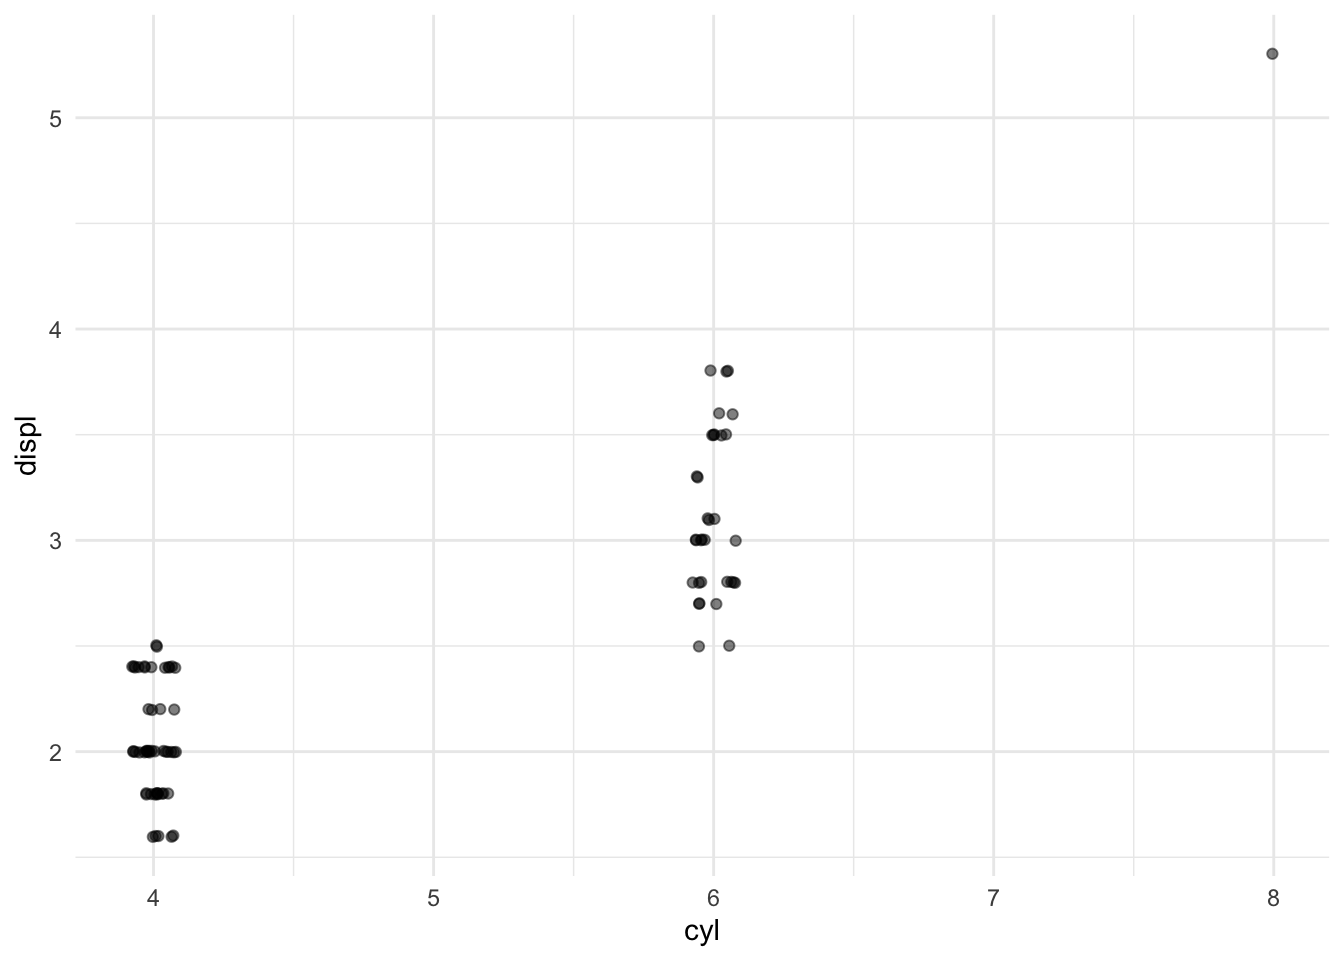
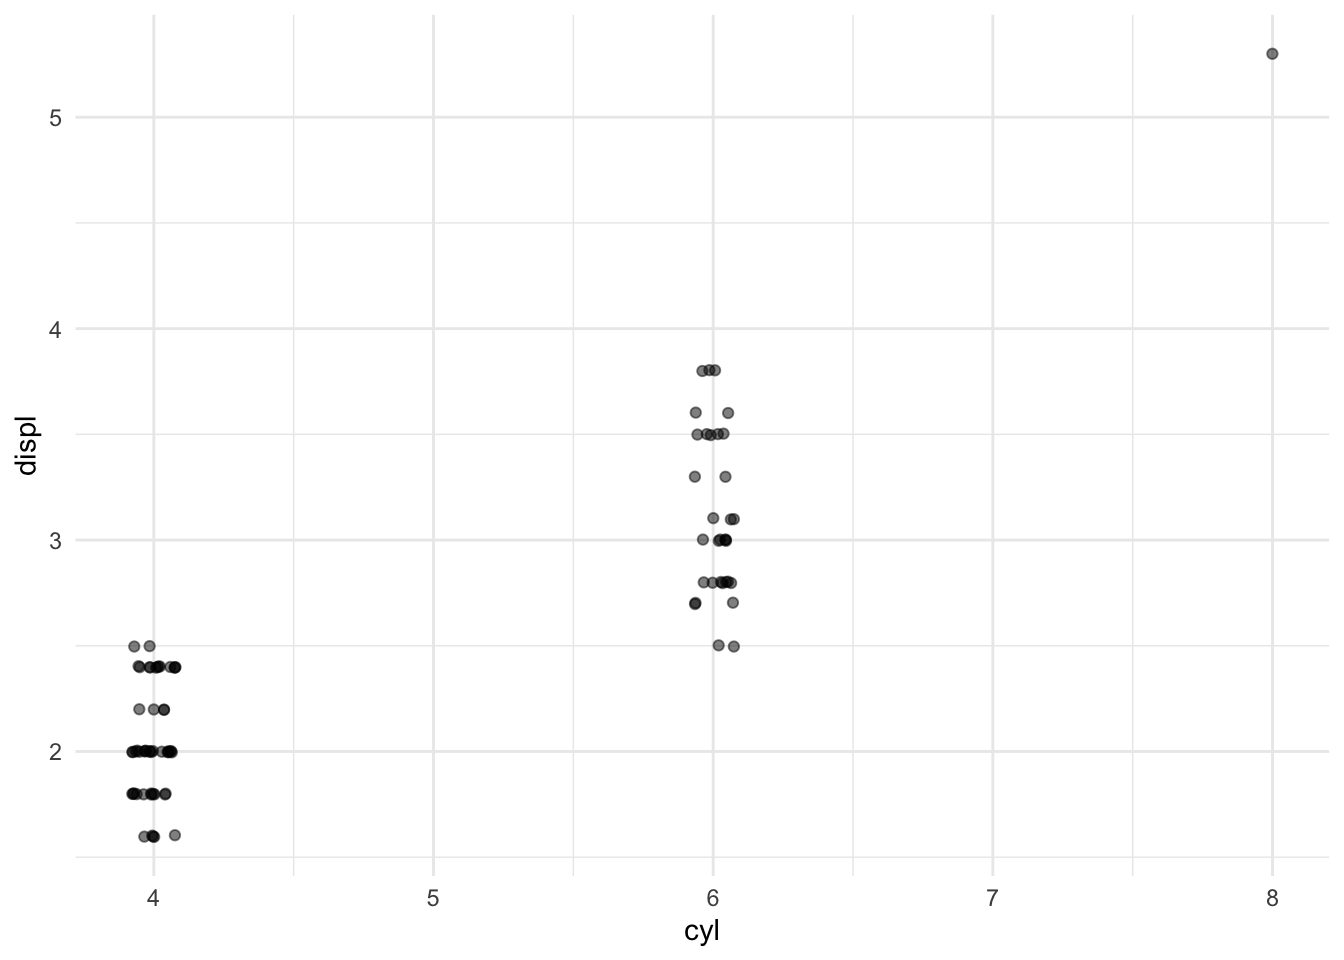
removed data preparation

diff --git a/docs/posts/miles_per_gallon/index.html b/docs/posts/miles_per_gallon/index.html
@@ -238,43 +238,43 @@ div.csl-indent {
 </thead>
 <tbody>
 <tr class="odd">
-<td style="text-align: left;">toyota</td>
-<td style="text-align: left;">corolla</td>
-<td style="text-align: right;">1.8</td>
-<td style="text-align: left;">2008</td>
+<td style="text-align: left;">volkswagen</td>
+<td style="text-align: left;">new beetle</td>
+<td style="text-align: right;">2.0</td>
+<td style="text-align: left;">1999</td>
 <td style="text-align: right;">4</td>
-<td style="text-align: right;">28</td>
+<td style="text-align: right;">21</td>
 <td style="text-align: left;">r</td>
-<td style="text-align: left;">compact</td>
+<td style="text-align: left;">subcompact</td>
 <td style="text-align: left;">manual</td>
 </tr>
 <tr class="even">
 <td style="text-align: left;">hyundai</td>
-<td style="text-align: left;">sonata</td>
-<td style="text-align: right;">2.4</td>
-<td style="text-align: left;">1999</td>
+<td style="text-align: left;">tiburon</td>
+<td style="text-align: right;">2.0</td>
+<td style="text-align: left;">2008</td>
 <td style="text-align: right;">4</td>
-<td style="text-align: right;">18</td>
-<td style="text-align: left;">r</td>
-<td style="text-align: left;">midsize</td>
-<td style="text-align: left;">auto</td>
-</tr>
-<tr class="odd">
-<td style="text-align: left;">honda</td>
-<td style="text-align: left;">civic</td>
-<td style="text-align: right;">1.6</td>
-<td style="text-align: left;">1999</td>
-<td style="text-align: right;">4</td>
-<td style="text-align: right;">24</td>
+<td style="text-align: right;">20</td>
 <td style="text-align: left;">r</td>
 <td style="text-align: left;">subcompact</td>
 <td style="text-align: left;">auto</td>
 </tr>
+<tr class="odd">
+<td style="text-align: left;">toyota</td>
+<td style="text-align: left;">corolla</td>
+<td style="text-align: right;">1.8</td>
+<td style="text-align: left;">1999</td>
+<td style="text-align: right;">4</td>
+<td style="text-align: right;">24</td>
+<td style="text-align: left;">r</td>
+<td style="text-align: left;">compact</td>
+<td style="text-align: left;">auto</td>
+</tr>
 <tr class="even">
-<td style="text-align: left;">chevrolet</td>
-<td style="text-align: left;">malibu</td>
-<td style="text-align: right;">3.6</td>
-<td style="text-align: left;">2008</td>
+<td style="text-align: left;">pontiac</td>
+<td style="text-align: left;">grand prix</td>
+<td style="text-align: right;">3.8</td>
+<td style="text-align: left;">1999</td>
 <td style="text-align: right;">6</td>
 <td style="text-align: right;">17</td>
 <td style="text-align: left;">r</td>
@@ -282,13 +282,13 @@ div.csl-indent {
 <td style="text-align: left;">auto</td>
 </tr>
 <tr class="odd">
-<td style="text-align: left;">hyundai</td>
-<td style="text-align: left;">sonata</td>
-<td style="text-align: right;">2.4</td>
+<td style="text-align: left;">volkswagen</td>
+<td style="text-align: left;">passat</td>
+<td style="text-align: right;">2.0</td>
 <td style="text-align: left;">2008</td>
 <td style="text-align: right;">4</td>
-<td style="text-align: right;">21</td>
-<td style="text-align: left;">r</td>
+<td style="text-align: right;">19</td>
+<td style="text-align: left;">p</td>
 <td style="text-align: left;">midsize</td>
 <td style="text-align: left;">auto</td>
 </tr>
@@ -305,47 +305,47 @@ div.csl-indent {
 </tr>
 <tr class="odd">
 <td style="text-align: left;">volkswagen</td>
-<td style="text-align: left;">passat</td>
-<td style="text-align: right;">1.8</td>
-<td style="text-align: left;">1999</td>
+<td style="text-align: left;">gti</td>
+<td style="text-align: right;">2.0</td>
+<td style="text-align: left;">2008</td>
 <td style="text-align: right;">4</td>
-<td style="text-align: right;">21</td>
+<td style="text-align: right;">22</td>
 <td style="text-align: left;">p</td>
-<td style="text-align: left;">midsize</td>
-<td style="text-align: left;">manual</td>
+<td style="text-align: left;">compact</td>
+<td style="text-align: left;">auto</td>
 </tr>
 <tr class="even">
 <td style="text-align: left;">toyota</td>
-<td style="text-align: left;">corolla</td>
-<td style="text-align: right;">1.8</td>
+<td style="text-align: left;">camry</td>
+<td style="text-align: right;">3.0</td>
 <td style="text-align: left;">1999</td>
-<td style="text-align: right;">4</td>
-<td style="text-align: right;">26</td>
+<td style="text-align: right;">6</td>
+<td style="text-align: right;">18</td>
 <td style="text-align: left;">r</td>
-<td style="text-align: left;">compact</td>
-<td style="text-align: left;">manual</td>
+<td style="text-align: left;">midsize</td>
+<td style="text-align: left;">auto</td>
 </tr>
 <tr class="odd">
-<td style="text-align: left;">honda</td>
-<td style="text-align: left;">civic</td>
-<td style="text-align: right;">1.8</td>
+<td style="text-align: left;">hyundai</td>
+<td style="text-align: left;">tiburon</td>
+<td style="text-align: right;">2.0</td>
 <td style="text-align: left;">2008</td>
 <td style="text-align: right;">4</td>
-<td style="text-align: right;">26</td>
+<td style="text-align: right;">20</td>
 <td style="text-align: left;">r</td>
 <td style="text-align: left;">subcompact</td>
 <td style="text-align: left;">manual</td>
 </tr>
 <tr class="even">
-<td style="text-align: left;">hyundai</td>
-<td style="text-align: left;">tiburon</td>
-<td style="text-align: right;">2.7</td>
-<td style="text-align: left;">2008</td>
+<td style="text-align: left;">nissan</td>
+<td style="text-align: left;">maxima</td>
+<td style="text-align: right;">3.0</td>
+<td style="text-align: left;">1999</td>
 <td style="text-align: right;">6</td>
-<td style="text-align: right;">16</td>
+<td style="text-align: right;">18</td>
 <td style="text-align: left;">r</td>
-<td style="text-align: left;">subcompact</td>
-<td style="text-align: left;">manual</td>
+<td style="text-align: left;">midsize</td>
+<td style="text-align: left;">auto</td>
 </tr>
 </tbody>
 </table>
@@ -738,7 +738,7 @@ deviance = -231.0 </code></pre>
     (p-value based on 10000 simulated values)
 
 data:  
-RLRT = 13.167, p-value = 1e-04</code></pre>
+RLRT = 13.167, p-value &lt; 2.2e-16</code></pre>
 </div>
 </div>
 <p>So we reject the hypothesis that manufacturer:model nesting effect is not significant. <br></p>
@@ -749,7 +749,7 @@ RLRT = 13.167, p-value = 1e-04</code></pre>
 </div>
 <div class="cell-output cell-output-stderr">
 <pre><code>
-109 message(s): boundary (singular) fit: see help('isSingular')</code></pre>
+105 message(s): boundary (singular) fit: see help('isSingular')</code></pre>
 </div>
 <div class="cell-output-display">
 <table class="caption-top table table-sm table-striped small">
@@ -763,33 +763,33 @@ RLRT = 13.167, p-value = 1e-04</code></pre>
 <tbody>
 <tr class="odd">
 <td style="text-align: left;">.sig01</td>
-<td style="text-align: right;">0.0108428</td>
-<td style="text-align: right;">0.0729370</td>
+<td style="text-align: right;">0.0085156</td>
+<td style="text-align: right;">0.0744915</td>
 </tr>
 <tr class="even">
 <td style="text-align: left;">.sig02</td>
 <td style="text-align: right;">0.0000000</td>
-<td style="text-align: right;">0.1021865</td>
+<td style="text-align: right;">0.1063275</td>
 </tr>
 <tr class="odd">
 <td style="text-align: left;">.sigma</td>
-<td style="text-align: right;">0.0449807</td>
-<td style="text-align: right;">0.0626946</td>
+<td style="text-align: right;">0.0451409</td>
+<td style="text-align: right;">0.0628006</td>
 </tr>
 <tr class="even">
 <td style="text-align: left;">(Intercept)</td>
-<td style="text-align: right;">3.2525833</td>
-<td style="text-align: right;">3.4140184</td>
+<td style="text-align: right;">3.2511080</td>
+<td style="text-align: right;">3.4149549</td>
 </tr>
 <tr class="odd">
 <td style="text-align: left;">displ</td>
-<td style="text-align: right;">-0.1758869</td>
-<td style="text-align: right;">-0.1241059</td>
+<td style="text-align: right;">-0.1770769</td>
+<td style="text-align: right;">-0.1235164</td>
 </tr>
 <tr class="even">
 <td style="text-align: left;">year2008</td>
-<td style="text-align: right;">0.0581226</td>
-<td style="text-align: right;">0.1062423</td>
+<td style="text-align: right;">0.0576997</td>
+<td style="text-align: right;">0.1065852</td>
 </tr>
 </tbody>
 </table>

diff --git a/docs/index.html b/docs/index.html
@@ -242,30 +242,7 @@ Prateek
 </a>
 </div>
 </div>
-<div class="quarto-post image-right" data-index="1" data-listing-date-sort="1764460800000" data-listing-file-modified-sort="1780585303658" data-listing-date-modified-sort="NaN" data-listing-reading-time-sort="24" data-listing-word-count-sort="4645">
-<div class="thumbnail"><a href="./posts/occupation_impact_on_rentals/data_preparation.html" class="no-external">
-
-<div class="listing-item-img-placeholder card-img-top" >&nbsp;</div>
-
-</a></div>
-<div class="body">
-<h3 class="no-anchor listing-title">
-<a href="./posts/occupation_impact_on_rentals/data_preparation.html" class="no-external">Data preparation</a>
-</h3>
-</div>
-<div class="metadata">
-<a href="./posts/occupation_impact_on_rentals/data_preparation.html" class="no-external">
-<div class="listing-date">
-Nov 30, 2025
-</div>
-<div class="listing-author">
-Prateek
-</div>
-<div class="listing-reading-time">24 min</div>
-</a>
-</div>
-</div>
[2 lines of base64/hex data omitted]
 <div class="thumbnail"><a href="./posts/occupation_impact_on_rentals/index.html" class="no-external">
 
 <img loading="lazy" src="./posts/occupation_impact_on_rentals/rentals_2021.png" class="thumbnail-image">
@@ -299,7 +276,7 @@ Prateek
 </a>
 </div>
 </div>
-<div class="quarto-post image-right" data-index="3" data-categories="cmFuZG9tJTIwZWZmZWN0cyUyQ2hpZXJhcmNoaWNhbCUyMG1vZGVscw==" data-listing-date-sort="1763856000000" data-listing-file-modified-sort="1773098100656" data-listing-date-modified-sort="NaN" data-listing-reading-time-sort="10" data-listing-word-count-sort="1912">
+<div class="quarto-post image-right" data-index="2" data-categories="cmFuZG9tJTIwZWZmZWN0cyUyQ2hpZXJhcmNoaWNhbCUyMG1vZGVscw==" data-listing-date-sort="1763856000000" data-listing-file-modified-sort="1773098100656" data-listing-date-modified-sort="NaN" data-listing-reading-time-sort="10" data-listing-word-count-sort="1912">
 <div class="thumbnail"><a href="./posts/miles_per_gallon/index.html" class="no-external">
 
 <img loading="lazy" src="./posts/miles_per_gallon/mpg.jpg" class="thumbnail-image">
@@ -329,7 +306,7 @@ Prateek
 </a>
 </div>
 </div>
-<div class="quarto-post image-right" data-index="4" data-categories="cmVncmVzc2lvbiUyQ0FOT1ZB" data-listing-date-sort="1760569200000" data-listing-file-modified-sort="1780586668640" data-listing-date-modified-sort="NaN" data-listing-reading-time-sort="6" data-listing-word-count-sort="1199">
+<div class="quarto-post image-right" data-index="3" data-categories="cmVncmVzc2lvbiUyQ0FOT1ZB" data-listing-date-sort="1760569200000" data-listing-file-modified-sort="1780586668640" data-listing-date-modified-sort="NaN" data-listing-reading-time-sort="6" data-listing-word-count-sort="1199">
 <div class="thumbnail"><a href="./posts/teen_gamble/index.html" class="no-external">
 
 <img loading="lazy" src="./posts/teen_gamble/gambling.jpeg" class="thumbnail-image">
@@ -359,7 +336,7 @@ Prateek
 </a>
 </div>
 </div>
[2 lines of base64/hex data omitted]
 <div class="thumbnail"><a href="./posts/likelihood_primer/index.html" class="no-external">
 
 <img loading="lazy" src="./posts/likelihood_primer/likelihood.jpg" class="thumbnail-image">
@@ -391,7 +368,7 @@ Prateek
 </a>
 </div>
 </div>
-<div class="quarto-post image-right" data-index="6" data-categories="bWFya292JTIwY2hhaW4lMkN0aW1lc2VyaWVz" data-listing-date-sort="1734480000000" data-listing-file-modified-sort="1767949490683" data-listing-date-modified-sort="NaN" data-listing-reading-time-sort="16" data-listing-word-count-sort="3016">
+<div class="quarto-post image-right" data-index="5" data-categories="bWFya292JTIwY2hhaW4lMkN0aW1lc2VyaWVz" data-listing-date-sort="1734480000000" data-listing-file-modified-sort="1767949490683" data-listing-date-modified-sort="NaN" data-listing-reading-time-sort="16" data-listing-word-count-sort="3016">
 <div class="thumbnail"><a href="./posts/user_behaviour_analysis/index.html" class="no-external">
 
 <p class="card-img-top"><img src="posts/user_behaviour_analysis/states.png"  class="thumbnail-image card-img"/></p>
@@ -421,7 +398,7 @@ Prateek
 </a>
 </div>
 </div>
-<div class="quarto-post image-right" data-index="7" data-categories="aHlwb3RoZXNpcyUyMHRlc3RpbmclMkNib290c3RyYXAlMkNyZWdyZXNzaW9u" data-listing-date-sort="1689894000000" data-listing-file-modified-sort="1767947651364" data-listing-date-modified-sort="NaN" data-listing-reading-time-sort="7" data-listing-word-count-sort="1234">
+<div class="quarto-post image-right" data-index="6" data-categories="aHlwb3RoZXNpcyUyMHRlc3RpbmclMkNib290c3RyYXAlMkNyZWdyZXNzaW9u" data-listing-date-sort="1689894000000" data-listing-file-modified-sort="1767947651364" data-listing-date-modified-sort="NaN" data-listing-reading-time-sort="7" data-listing-word-count-sort="1234">
 <div class="thumbnail"><a href="./posts/movies_getting_longer/index.html" class="no-external">
 
 <img loading="lazy" src="./posts/movies_getting_longer/movie_coupon.jpg" class="thumbnail-image">
